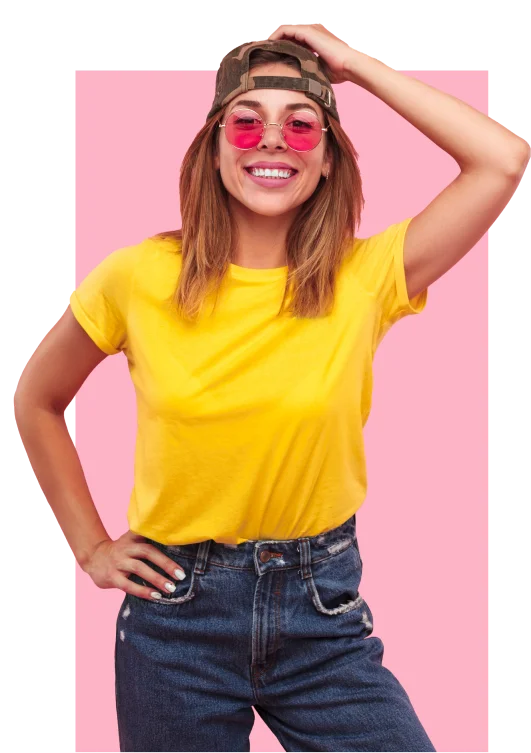
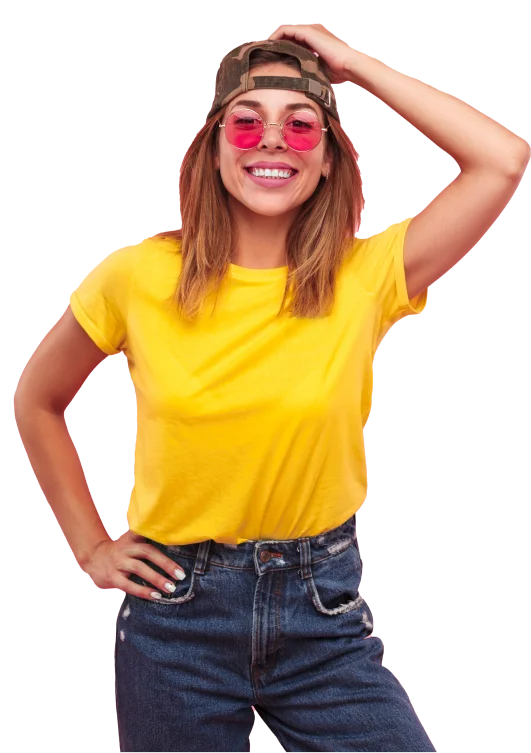
mobile edites

diff --git a/app/_components/AboutSection.tsx b/app/_components/AboutSection.tsx
@@ -4,22 +4,35 @@ import Joy from "./Icons/Joy";
 import { pt_serif } from "../fonts";
 import ArrowLeft from "./Icons/ArrowLeft";
 import { motion } from "@/app/lib/motion";
+import CurveBorder from "./Icons/CurveBorder";
 
 export default function AboutSection() {
   return (
-    <div className="bg-greenBlack md:pt-130 pt-40 pb-50 px-4">
+    <div className="bg-greenBlack md:py-130 py-40 px-4">
       <div className="container mx-auto">
-        <div className="flex justify-between items-center md:flex-nowrap flex-wrap">
+        <div className="flex justify-between items-center md:flex-nowrap flex-wrap-reverse">
           <div className="w-auto">
             <p
               className={`md:text-4xl text-2xl ${pt_serif.className} text-white md:w-[700px] w-full font-normal`}
             >
               La Poire&apos;s{" "}
-              <span className="text-goldLight">four brands</span> in{" "}
-              <span className="text-goldLight">Egypt</span> symbolize a fusion
-              of <span className="text-goldLight">joy</span> and happiness in
-              every cherished <span className="text-goldLight">moment</span>.
-              Through our unwavering commitment, we{" "}
+              <span className="text-goldLight relative">
+                four brands{" "}
+                <motion.span
+                  className="absolute left-0 right-0 top-full"
+                  initial={{ opacity: 0, y: -20 }}
+                  whileInView={{ opacity: 1, y: 0 }}
+                  transition={{ duration: 0.2, delay: 1 * 0.2 }}
+                  viewport={{ once: true }}
+                >
+                  <CurveBorder />
+                </motion.span>
+              </span>{" "}
+              in <span className="text-goldLight">Egypt</span> symbolize a
+              fusion of <span className="text-goldLight">joy</span> and
+              happiness in every cherished{" "}
+              <span className="text-goldLight">moment</span>. Through our
+              unwavering commitment, we{" "}
               <span className="text-goldLight">transform</span> fleeting moments
               into memorable, delightful experiences.
             </p>

diff --git a/app/_components/Testimonials.tsx b/app/_components/Testimonials.tsx
@@ -81,19 +81,31 @@ export default function Testimonials() {
     <div className="pb-100">
       <div className="container mx-auto">
         <div className="flex items-end justify-center md:gap-95 md:flex-nowrap flex-wrap gap-20 md:px-0 px-4">
-          <motion.div
-            initial={{ opacity: 0, scale: 1, x: 100 }}
-            whileInView={{ opacity: 1, x: 0, scale: 1 }}
-            transition={{ duration: 0.2, delay: 1 * 0.2 }}
-            viewport={{ once: true }}
-          >
-            <Image
-              src="/images/testimonials-hero.webp"
-              alt="img alt"
-              width={531}
-              height={753}
-            />
-          </motion.div>
+          <div>
+            <div className="relative">
+              <motion.span
+                className="absolute bottom-0 left-[75px] right-[42px] top-[70px] bg-pink z-[1]"
+                initial={{ opacity: 0, y: -100 }}
+                whileInView={{ opacity: 1, y: 0}}
+                transition={{ duration: 0.2, delay: 0.9 }}
+                viewport={{ once: true }}
+              ></motion.span>
+              <motion.div
+                initial={{ opacity: 0, scale: 0.5, y: -100 }}
+                whileInView={{ opacity: 1, y: 0, scale: 1 }}
+                transition={{ duration: 0.2, delay: 0.3 }}
+                viewport={{ once: true }}
+              >
+                <Image
+                  src="/images/testimonials-hero.webp"
+                  alt="img alt"
+                  width={531}
+                  height={753}
+                  className="z-[2] relative"
+                />
+              </motion.div>
+            </div>
+          </div>
           <motion.div
             className="w-[533px]"
             initial={{ opacity: 0, scale: 1, x: -100 }}

diff --git a/app/_components/LandingHero.tsx b/app/_components/LandingHero.tsx
@@ -53,7 +53,7 @@ const CompanyInfo = ({ cardData }: any) => (
 );
 
 const CompanyStats = () => (
-  <div className=" md:flex-row flex-col md:gap-0 gap-10 w-full">
+  <div className="flex md:flex-row flex-col md:gap-0 gap-10 w-full">
     <div className="md:w-460 w-full">
       <h3 className="text-xl text-white mb-5">Flavors Trusted by Millions</h3>
       <p className="text-white text-sm font-light">
@@ -61,8 +61,8 @@ const CompanyStats = () => (
         deliver unparalleled happiness and flavor.
       </p>
     </div>
-    <div className="flex justify-between md:gap-44 gap-20 md:flex-row flex-col md:pt-0 pt-20">
-      <StatItem value="5" label="brands" />
+    <div className="flex justify-between md:gap-44 gap-10 md:pt-0 pt-20">
+      <StatItem value="6" label="brands" />
       <StatItem value="126" label="Locations" />
       <StatItem value="870" label="Employees" />
     </div>
@@ -72,7 +72,7 @@ const CompanyStats = () => (
 const StatItem = ({ value, label }: any) => (
   <>
     <div className="flex flex-col justify-center items-center text-center">
-      <span className="md:text-7xl text-5xl text-goldLight min-w-[140px]">
+      <span className="md:text-7xl text-2xl text-goldLight md:min-w-[140px]">
         <Counter value={value} />
       </span>
       <span className="uppercase text-sm text-gray2">{label}</span>

diff --git a/app/_components/MoreAbout.tsx b/app/_components/MoreAbout.tsx
@@ -57,7 +57,7 @@ export default function MoreAbout() {
               url="https://www.youtube.com/watch?v=G1LRs3-dmTw"
               playing
               light="/images/more-about.webp"
-              playIcon={<PlayBtn />}
+              playIcon={<span className="md:w-[140px] md:h-[141px] w-[100px] h-[100px] z-10"><PlayBtn /></span>}
             />
           </div>
         )}
@@ -80,13 +80,13 @@ export default function MoreAbout() {
               </p>
             </div>
           </div>
-          <div className="flex grid-cols-3 gap-y-26 justify-between flex-wrap gap-x-56">
+          <div className="flex md:grid-cols-3 grid-cols-2 gap-y-26 justify-between flex-wrap md:gap-x-56 gap-5">
             {moreAboutData.map((item, index) => (
               <motion.div
                 key={index}
-                className="md:w-320"
-                initial={{ opacity: 0, x: -200 }}
-                whileInView={{ opacity: 1, x: 0 }}
+                className="md:w-320 w-[calc(50%-10px)]"
+                initial={{ opacity: 0, y: -10 }}
+                whileInView={{ opacity: 1, y: 0 }}
                 transition={{ duration: 0.2, delay: index * 0.2 }}
                 viewport={{ once: true }}
               >

diff --git a/app/layout.tsx b/app/layout.tsx
@@ -6,8 +6,8 @@ import { poppins } from "./fonts";
 import Footer from "./_components/Footer/Footer";
 
 export const metadata: Metadata = {
-  title: "Create Next App",
-  description: "Generated by create next app",
+  title: "La Poire",
+  description: "La Poire Landing Page",
 };
 
 export default function RootLayout({
@@ -18,9 +18,11 @@ export default function RootLayout({
   return (
     <html lang="en">
       <body className={cls(`${poppins.className} bg-white`)}>
-        <Header />
-        {children}
-        <Footer />
+        <div className="overflow-hidden">
+          <Header />
+          {children}
+          <Footer />
+        </div>
       </body>
     </html>
   );

diff --git a/app/_components/Button.tsx b/app/_components/Button.tsx
@@ -28,13 +28,13 @@ interface ButtonClasses {
 }
 
 const classes: ButtonClasses = {
-    base: 'focus:outline-none transition ease-in-out duration-300 font-medium tracking-[0.01em]',
+    base: 'focus:outline-none transition ease-in-out duration-300 font-medium',
     disabled: 'opacity-50 cursor-not-allowed',
     pill: 'rounded-full',
     uppercase: 'uppercase',
     size: {
         small: 'px-2 py-1 text-sm',
-        normal: 'px-20 py-2 md:text-base text-sm',
+        normal: 'px-34 py-2 md:text-sm md:leading-[21px] tracking-[0.02em] text-sm',
         large: 'px-8 py-3 text-lg'
     },
     variant: {

diff --git a/app/_components/Footer/Footer.tsx b/app/_components/Footer/Footer.tsx
@@ -14,8 +14,8 @@ export default function Footer() {
             height="46"
           />
         </Link>
-        <span className="bg-gray5 h-[2px] w-full block" />
-        <p className="text-gray5 text-sm tracking-normal">
+        <span className="bg-gray5 h-[2px] w-full block opacity-50" />
+        <p className="text-gray5 text-sm tracking-normal opacity-50">
           © {new Date().getFullYear()} La Poire Group • All Rights Reserved •{" "}
           <Link
             href="https://www.mitchdesigns.com/"

diff --git a/app/_components/MoreAboutItem.tsx b/app/_components/MoreAboutItem.tsx
@@ -5,8 +5,8 @@ export default function MoreAboutItem({ img, title, desc }: any) {
   return (
     <div className="md:w-320 max-w-full">
       <Image src={img} alt={title} width="67" height="65" />
-      <h4 className="text-base font-medium text-black">{title}</h4>
-      <p className="text-gray text-xs mt-10">{desc}</p>
+      <h4 className="md:text-base text-sm font-medium text-black md:mt-0 mt-5">{title}</h4>
+      <p className="text-gray text-xs md:mt-10 mt-5">{desc}</p>
     </div>
   );
 }

diff --git a/app/_components/Header/Header.tsx b/app/_components/Header/Header.tsx
@@ -5,7 +5,7 @@ import Button from "../Button";
 
 export default function Header() {
   return (
-    <div className="header-page pb-20 pt-34 px-4">
+    <header className="header-page pb-20 pt-34 px-4">
       <div className="container mx-auto">
         <div className="flex justify-between items-center">
           <div>
@@ -26,6 +26,6 @@ export default function Header() {
           </div>
         </div>
       </div>
-    </div>
+    </header>
   );
 }

diff --git a/app/_components/Icons/CurveBorder.tsx b/app/_components/Icons/CurveBorder.tsx
@@ -1,0 +1,18 @@
+
+export default function CurveBorder() {
+  return (
+    <svg
+      width="100%"
+      height="16"
+      viewBox="0 0 196 16"
+      fill="none"
+      xmlns="http://www.w3.org/2000/svg"
+    >
+      <path
+        d="M1 13.9798C59.5 5.1201 105 -1.37994 195 5.12008"
+        stroke="#EAD388"
+        strokeWidth="3"
+      />
+    </svg>
+  );
+}

diff --git a/app/_components/Icons/PlayBtn.tsx b/app/_components/Icons/PlayBtn.tsx
@@ -3,8 +3,8 @@ import React from "react";
 export default function PlayBtn() {
   return (
     <svg
-      width="140"
-      height="141"
+      width="100%"
+      height="100%"
       viewBox="0 0 140 141"
       fill="none"
       xmlns="http://www.w3.org/2000/svg"

diff --git a/app/_components/Landing.tsx b/app/_components/Landing.tsx
@@ -7,7 +7,7 @@ import Testimonials from "./Testimonials";
 
 export default function Landing() {
   return (
-    <div className="overflow-hidden">
+    <div>
       <LandingHero />
       <OurBrands />
       <AboutSection />
